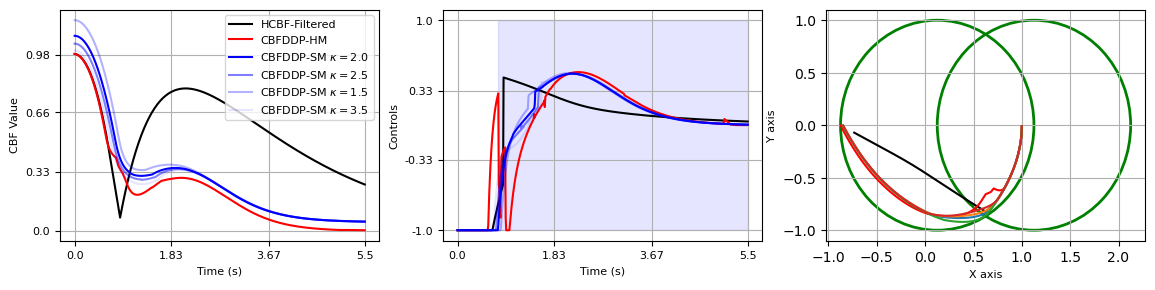
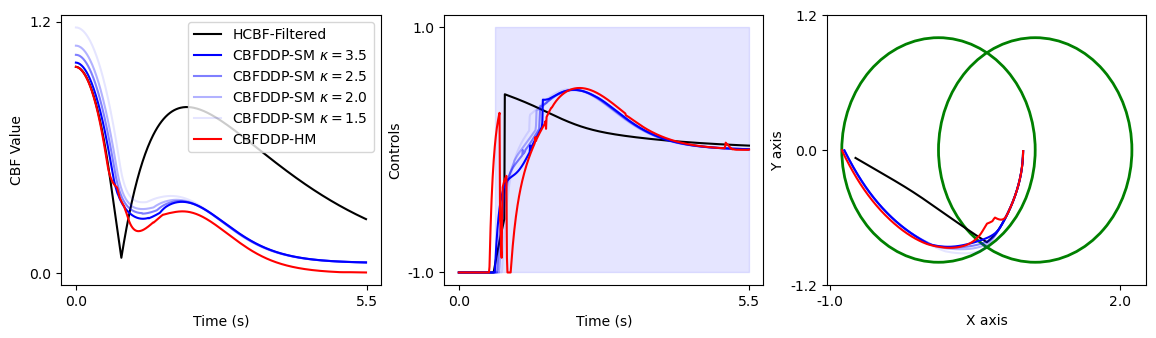
updates to plots

diff --git a/evaluation.py b/evaluation.py
@@ -83,8 +83,8 @@ def run_simulation(linear_sys, cbf, method=None, Rc=None, horizon=None, gamma=No
 
     return output_dict
 
-ftsize=8
-fig, axes = plt.subplots(nrows=1, ncols=3, figsize=(14, 3))
+ftsize=10
+fig, axes = plt.subplots(nrows=1, ncols=3, figsize=(14.0, 3.5))
 
 unconstrained_dict = run_simulation(linear_sys, cbf, method='unfilter')
 unconstrained_simulation_states = unconstrained_dict['simulation_states']
@@ -102,7 +102,25 @@ axes[0].plot(np.arange(0, constrained_runtime)*linear_sys.dt, constrained_cbf_st
 axes[1].plot(np.arange(0, constrained_runtime)*linear_sys.dt, constrained_controls[0:constrained_runtime], label='HCBF-Filtered', color='k')
 axes[2].plot(constrained_simulation_states[0, :], constrained_simulation_states[1, :], label='HCBF-Filtered', color='k')
 
+cbf.use_smooth_max = True
+alphas = [1.0, 0.5, 0.3, 0.1]
+for kiter, kappa in enumerate([3.5, 2.5, 2.0, 1.5]):
+    cbf.kappa = kappa
+    ddpcbf_smooth_dict = run_simulation(linear_sys, cbf, method='ddpcbf', Rc=5e-2, horizon=15, gamma=0.97)
+    ddpcbf_smooth_simulation_states = ddpcbf_smooth_dict['simulation_states']
+    ddpcbf_smooth_cbf_states = ddpcbf_smooth_dict['cbf_states']
+    ddpcbf_smooth_runtime = ddpcbf_smooth_dict['runtime']
+    ddpcbf_smooth_controls = ddpcbf_smooth_dict['controls']
+    ddpcbf_smooth_solver_types = ddpcbf_smooth_dict['solver_types']
 
+    label_tag = f'CBFDDP-SM $\kappa=${kappa}'
+    axes[0].plot(np.arange(0, ddpcbf_smooth_runtime)*linear_sys.dt, ddpcbf_smooth_cbf_states[0:ddpcbf_smooth_runtime], label=label_tag, color='b', alpha=alphas[kiter])
+    axes[1].plot(np.arange(0, ddpcbf_smooth_runtime)*linear_sys.dt, ddpcbf_smooth_controls[0:ddpcbf_smooth_runtime], label=label_tag, color='b', alpha=alphas[kiter])
+    if kappa==3.5:
+        axes[1].fill_between(np.arange(0, ddpcbf_smooth_runtime)*linear_sys.dt, -1.0, 1.0, where=(ddpcbf_smooth_solver_types>0), color='b', alpha=0.1)
+    axes[2].plot(ddpcbf_smooth_simulation_states[0, :], ddpcbf_smooth_simulation_states[1, :], label=label_tag, color='b', alpha=alphas[kiter])
+
+cbf.use_smooth_max = False
 ddpcbf_dict = run_simulation(linear_sys, cbf, method='ddpcbf', Rc=5e-2, horizon=15, gamma=0.97)
 ddpcbf_simulation_states = ddpcbf_dict['simulation_states']
 ddpcbf_cbf_states = ddpcbf_dict['cbf_states']
@@ -115,47 +133,29 @@ axes[1].plot(np.arange(0, ddpcbf_runtime)*linear_sys.dt, ddpcbf_controls[0:ddpcb
 #axes[1].fill_between(np.arange(0, ddpcbf_runtime)*linear_sys.dt, -1.0, 1.0, where=(ddpcbf_solver_types>0), color='r', alpha=0.2)
 axes[2].plot(ddpcbf_simulation_states[0, :], ddpcbf_simulation_states[1, :], label='CBFDDP-HM', color='r')
 
-cbf.use_smooth_max = True
-alphas = [1.0, 0.5, 0.3, 0.1]
-for kiter, kappa in enumerate([2.0, 2.5, 1.5, 3.5]):
-    cbf.kappa = kappa
-    ddpcbf_smooth_dict = run_simulation(linear_sys, cbf, method='ddpcbf', Rc=5e-2, horizon=15, gamma=0.97)
-    ddpcbf_smooth_simulation_states = ddpcbf_smooth_dict['simulation_states']
-    ddpcbf_smooth_cbf_states = ddpcbf_smooth_dict['cbf_states']
-    ddpcbf_smooth_runtime = ddpcbf_smooth_dict['runtime']
-    ddpcbf_smooth_controls = ddpcbf_smooth_dict['controls']
-    ddpcbf_smooth_solver_types = ddpcbf_smooth_dict['solver_types']
-
-    label_tag = f'CBFDDP-SM $\kappa=${kappa}'
-    axes[0].plot(np.arange(0, ddpcbf_smooth_runtime)*linear_sys.dt, ddpcbf_smooth_cbf_states[0:ddpcbf_smooth_runtime], label=label_tag, color='b', alpha=alphas[kiter])
-    axes[1].plot(np.arange(0, ddpcbf_smooth_runtime)*linear_sys.dt, ddpcbf_smooth_controls[0:ddpcbf_smooth_runtime], label=label_tag, color='b', alpha=alphas[kiter])
-    if kappa==2.0:
-        axes[1].fill_between(np.arange(0, ddpcbf_smooth_runtime)*linear_sys.dt, -1.0, 1.0, where=(ddpcbf_smooth_solver_types>0), color='b', alpha=0.1)
-    axes[2].plot(ddpcbf_smooth_simulation_states[0, :], ddpcbf_smooth_simulation_states[1, :], label=label_tag)
-
 #axes[0].plot(np.arange(0, T)*linear_sys.dt, unconstrained_cbf_states, label='Unfiltered')
 axes[0].set_xlabel('Time (s)', fontsize=ftsize)
 axes[0].set_ylabel('CBF Value', fontsize=ftsize)
 axes[0].legend(fontsize=ftsize)
-xticks = np.round(np.linspace(0, T*linear_sys.dt, 4), 2)
+xticks = np.round(np.linspace(0, T*linear_sys.dt, 2), 2)
 axes[0].set_xticks(ticks=xticks, labels=xticks)
-yticks = np.round(np.linspace(0.0, constrained_cbf_states.max(), 4), 2)
+yticks = np.round(np.linspace(0.0, 1.2, 2), 2)
 axes[0].set_yticks(ticks=yticks, labels=yticks)
 axes[0].tick_params(labelsize=ftsize)
 #axes[0].set_xlim([0, constrained_runtime*linear_sys.dt])
 #axes[0].set_ylim([-0.1, round(constrained_cbf_states.max(), 2)])
-axes[0].grid()
+#axes[0].grid()
 
 #axes[0, 1].plot(np.arange(0, T)*linear_sys.dt, unconstrained_controls, label='UnFiltered')
 axes[1].set_xlabel('Time (s)', fontsize=ftsize)
 axes[1].set_ylabel('Controls', fontsize=ftsize)
 #axes[1].legend(fontsize=ftsize)
-xticks = np.round(np.linspace(0, T*linear_sys.dt, 4), 2)
+xticks = np.round(np.linspace(0, T*linear_sys.dt, 2), 2)
 axes[1].set_xticks(ticks=xticks, labels=xticks)
-yticks = np.round(np.linspace(-1.0, 1.0, 4), 2)
+yticks = np.round(np.linspace(-1.0, 1.0, 2), 2)
 axes[1].set_yticks(ticks=yticks, labels=yticks)
 axes[1].tick_params(labelsize=ftsize)
-axes[1].grid()
+#axes[1].grid()
 
 ellipse = Ellipse(xy=cbf.c, width=2*cbf.beta, height=2*cbf.beta, 
                         edgecolor='g', fc='None', lw=2)
@@ -163,9 +163,14 @@ axes[2].add_patch(ellipse)
 ellipse_pair = Ellipse(xy=cbf.c + cbf.shift, width=2*cbf.beta, height=2*cbf.beta, 
                         edgecolor='g', fc='None', lw=2)
 axes[2].add_patch(ellipse_pair)
+xticks = np.round(np.linspace(-1, 2, 2), 2)
+axes[2].set_xticks(ticks=xticks, labels=xticks)
+yticks = np.round(np.linspace(-1.2, 1.2, 3), 2)
 axes[2].set_xlabel('X axis', fontsize=ftsize)
 axes[2].set_ylabel('Y axis', fontsize=ftsize)
-axes[2].grid()
+axes[2].tick_params(labelsize=ftsize)
+axes[2].set_yticks(ticks=yticks, labels=yticks)
+#axes[2].grid()
 
 # axes[1, 0].plot(np.arange(0, constrained_runtime)*linear_sys.dt, constrained_lie_f[0:constrained_runtime], label='Filtered')
 # axes[1, 0].plot(np.arange(0, ddpcbf_runtime)*linear_sys.dt, ddpcbf_lie_f[0:ddpcbf_runtime], label='CBFDDP-Filtered')
